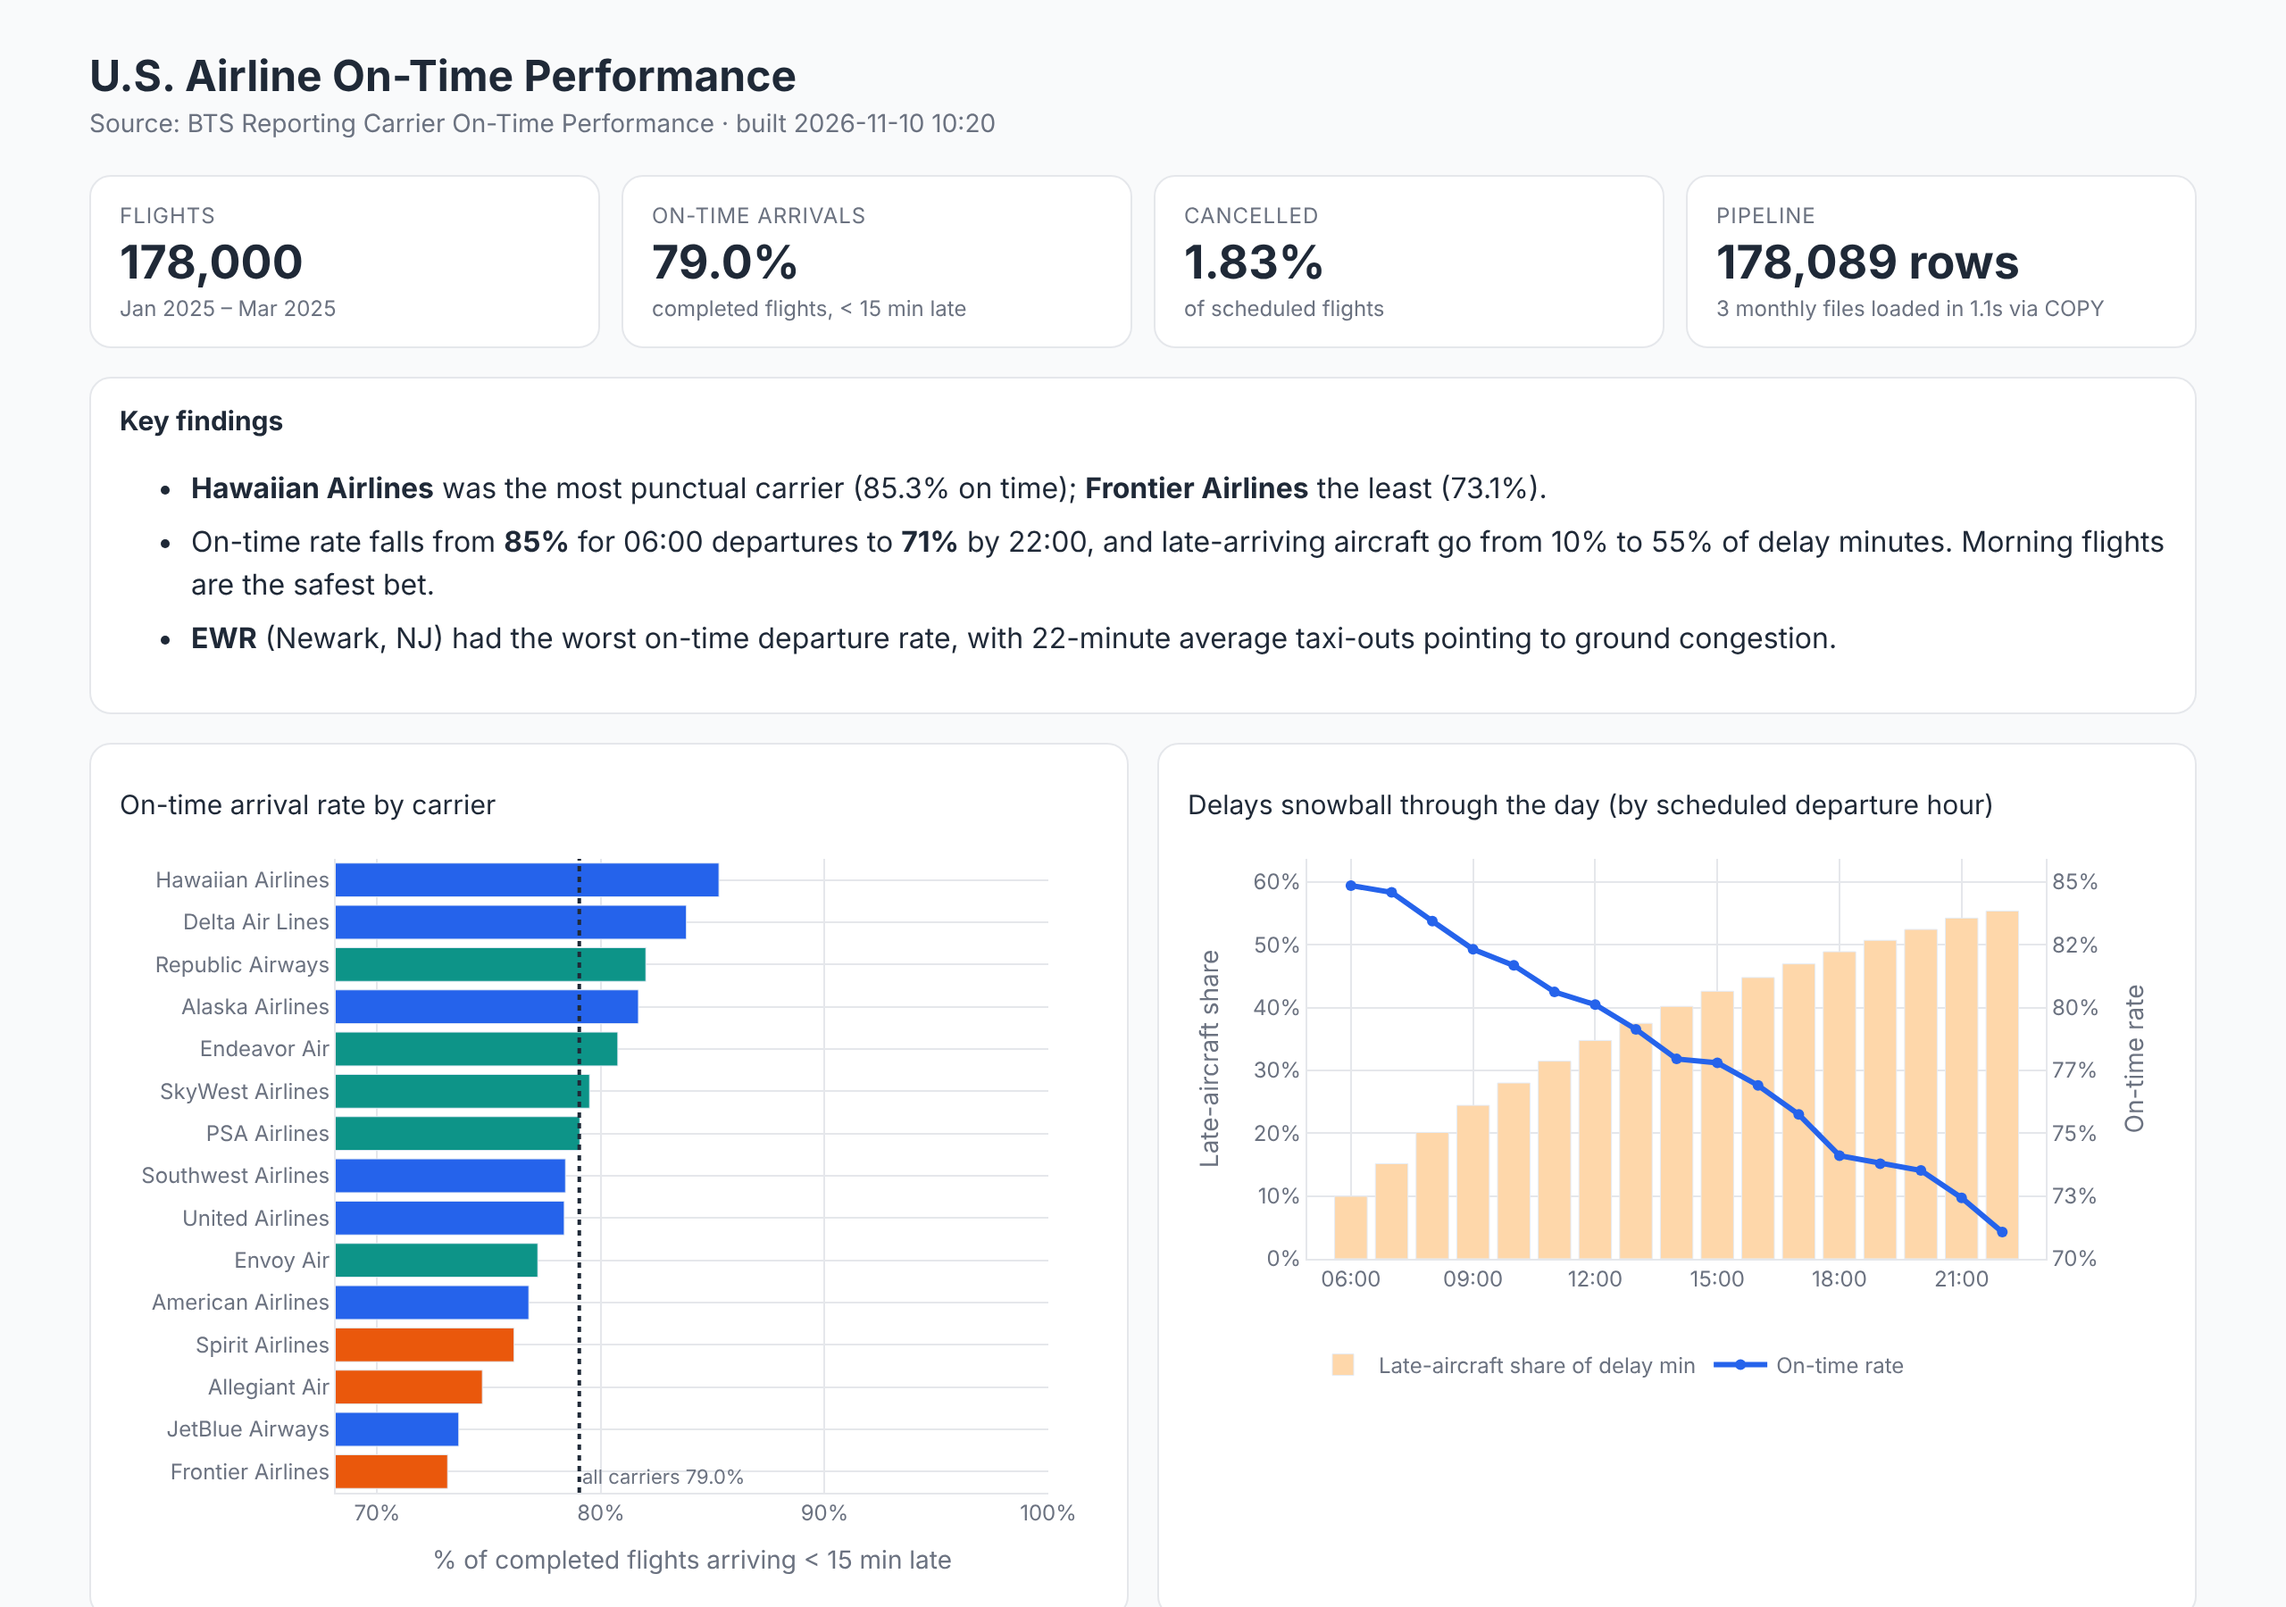
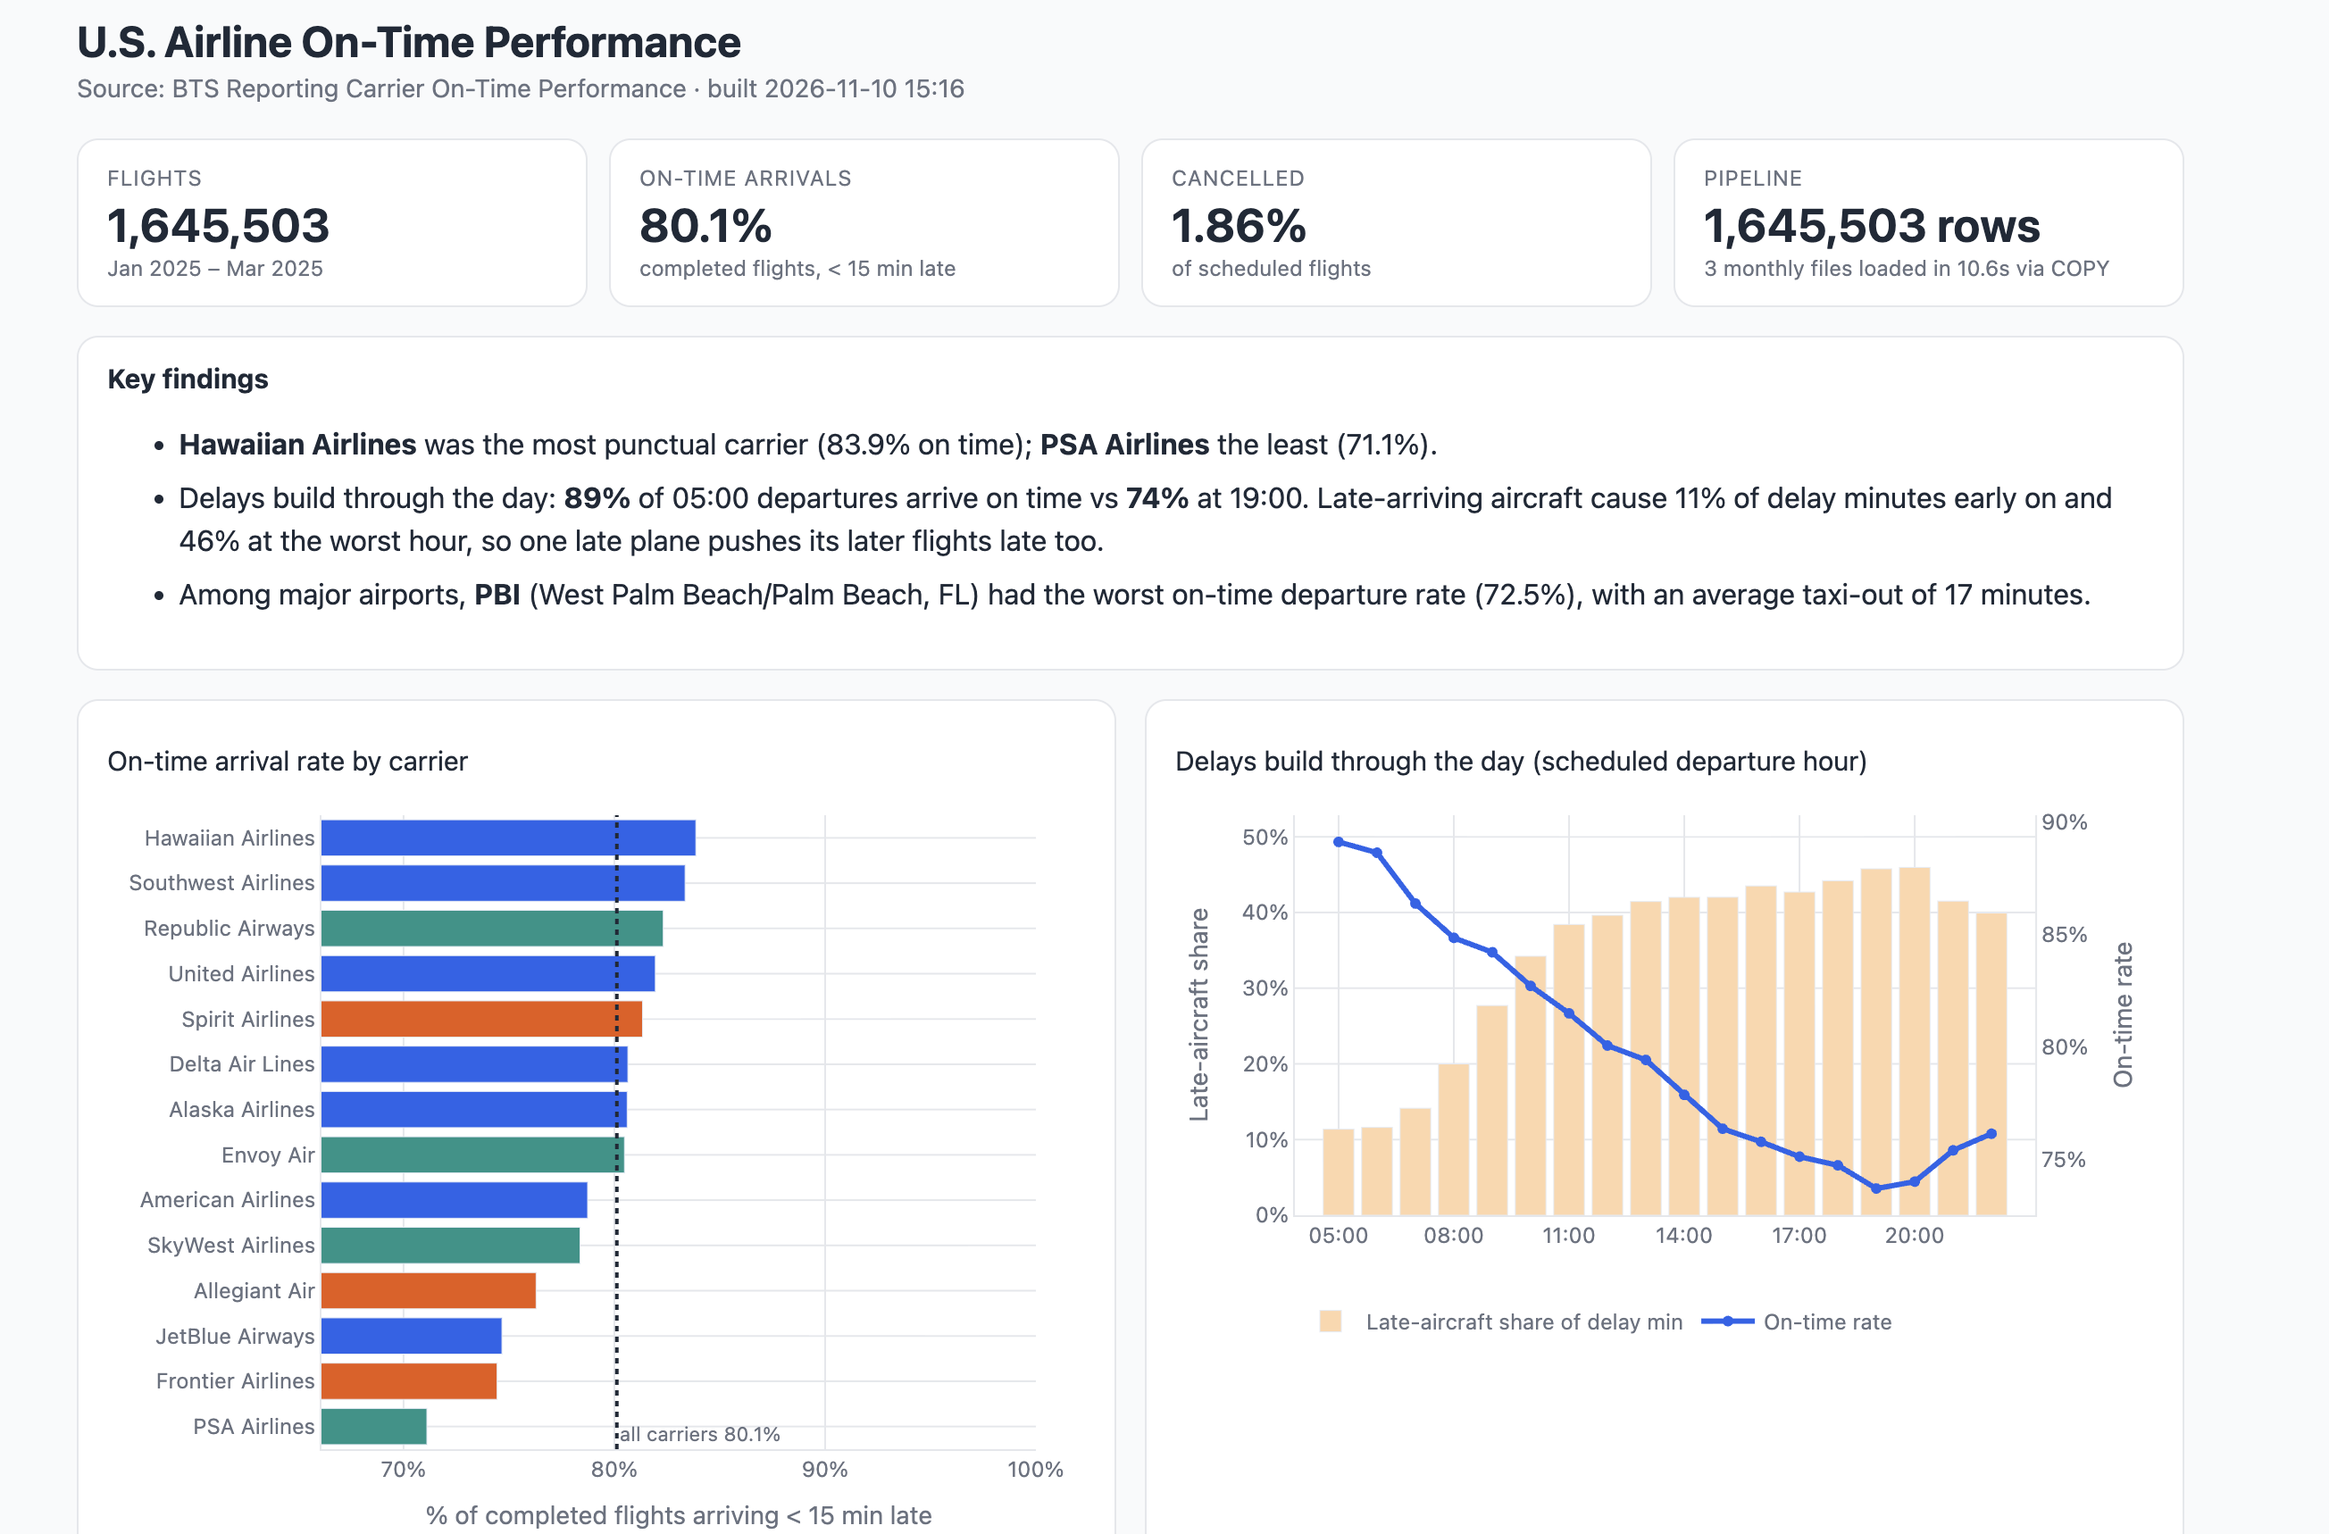
Report on real BTS data (Jan–Mar 2025)

diff --git a/pipeline/report.py b/pipeline/report.py
@@ -63,7 +63,9 @@ def build_report() -> None:
             SELECT airport_code, city_name, sum(departures) deps,
                    sum(on_time_departure_rate * departures) / sum(departures) otd,
                    sum(avg_taxi_out_min * departures) / sum(departures) taxi
-            FROM marts.mart_airport_monthly GROUP BY 1,2 HAVING sum(departures) >= 500 ORDER BY otd LIMIT 10""")
+            FROM marts.mart_airport_monthly GROUP BY 1,2
+            HAVING sum(departures) >= 0.005 * (SELECT sum(departures) FROM marts.mart_airport_monthly)
+            ORDER BY otd LIMIT 10""")
         loads = _q(con, """
             SELECT count(*) files, sum(rows_loaded) rows_loaded, sum(duration_sec) secs
             FROM (SELECT DISTINCT ON (data_month) * FROM meta.ingestion_log
@@ -73,6 +75,8 @@ def build_report() -> None:
     otp = sum(float(m["otp"]) * m["flights"] for m in monthly) / total
     cancel = sum(float(m["cancel_rate"]) * m["flights"] for m in monthly) / total
     first, last = monthly[0]["data_month"], monthly[-1]["data_month"]
+    # red-eye hours have very few flights and swing wildly; only keep hours with >= 1% of flights
+    hourly = [h for h in hourly if h["flights"] >= 0.01 * total]
 
     # 1. carriers
     f1 = go.Figure(go.Bar(
@@ -95,7 +99,7 @@ def build_report() -> None:
                marker_color="#fed7aa", secondary_y=False)
     f2.add_scatter(x=xs, y=[float(h["otp"]) * 100 for h in hourly], name="On-time rate", mode="lines+markers",
                    line=dict(color=BLUE, width=3), secondary_y=True)
-    _style(f2, "Delays snowball through the day (by scheduled departure hour)")
+    _style(f2, "Delays build through the day (scheduled departure hour)")
     f2.update_yaxes(title="Late-aircraft share", ticksuffix="%", range=[0, late_max * 1.15], dtick=10, secondary_y=False)
     f2.update_yaxes(title="On-time rate", ticksuffix="%", tickformat=".0f", secondary_y=True, showgrid=False)
     f2.update_xaxes(tickangle=0, nticks=9)
@@ -121,21 +125,22 @@ def build_report() -> None:
         hovertemplate="%{x} · %{customdata[0]}<br>%{y:.1f}% on-time departures<br>avg taxi-out %{customdata[1]:.0f} min<extra></extra>",
         text=[f"{float(a['taxi']):.0f} min taxi" for a in airports], textposition="inside", textfont=dict(color="white", size=10),
     ))
-    _style(f4, "10 worst airports for on-time departure (label = avg taxi-out)")
+    _style(f4, "10 worst major airports for on-time departure (label = avg taxi-out)")
     f4.update_yaxes(title="On-time departure rate", ticksuffix="%",
                     range=[min(float(a["otd"]) for a in airports) * 100 - 8, max(float(a["otd"]) for a in airports) * 100 + 4])
 
     best, worst = carriers[-1], carriers[0]
-    early, late = hourly[0], hourly[-1]
+    best_h = max(hourly, key=lambda h: h["otp"])
+    worst_h = min(hourly, key=lambda h: h["otp"])
     findings = [
         f"<b>{best['carrier_name']}</b> was the most punctual carrier ({float(best['otp']):.1%} on time); "
         f"<b>{worst['carrier_name']}</b> the least ({float(worst['otp']):.1%}).",
-        f"On-time rate falls from <b>{float(early['otp']):.0%}</b> for {int(early['h']):02d}:00 departures to "
-        f"<b>{float(late['otp']):.0%}</b> by {int(late['h']):02d}:00, and late-arriving aircraft go from "
-        f"{float(early['late_share']):.0%} to {float(late['late_share']):.0%} of delay minutes. "
-        "Morning flights are the safest bet.",
-        f"<b>{airports[0]['airport_code']}</b> ({airports[0]['city_name']}) had the worst on-time departure rate, "
-        f"with {float(airports[0]['taxi']):.0f}-minute average taxi-outs pointing to ground congestion.",
+        f"Delays build through the day: <b>{float(best_h['otp']):.0%}</b> of {int(best_h['h']):02d}:00 departures arrive on time "
+        f"vs <b>{float(worst_h['otp']):.0%}</b> at {int(worst_h['h']):02d}:00. Late-arriving aircraft cause "
+        f"{float(best_h['late_share']):.0%} of delay minutes early on and {float(worst_h['late_share']):.0%} at the worst hour, "
+        "so one late plane pushes its later flights late too.",
+        f"Among major airports, <b>{airports[0]['airport_code']}</b> ({airports[0]['city_name']}) had the worst on-time "
+        f"departure rate ({float(airports[0]['otd']):.1%}), with an average taxi-out of {float(airports[0]['taxi']):.0f} minutes.",
     ]
 
     kpis = [

diff --git a/README.md b/README.md
@@ -11,7 +11,6 @@ It loads monthly flight data from the Bureau of Transportation Statistics into P
 - There are 31 data tests, and GitHub Actions runs the whole thing on every push (twice, to check that re-runs don't change anything).
 
 ![Report](images/report.png)
-*Report built from the generated sample data. Real-data version coming once I load the BTS files.*
 
 ```mermaid
 flowchart LR
